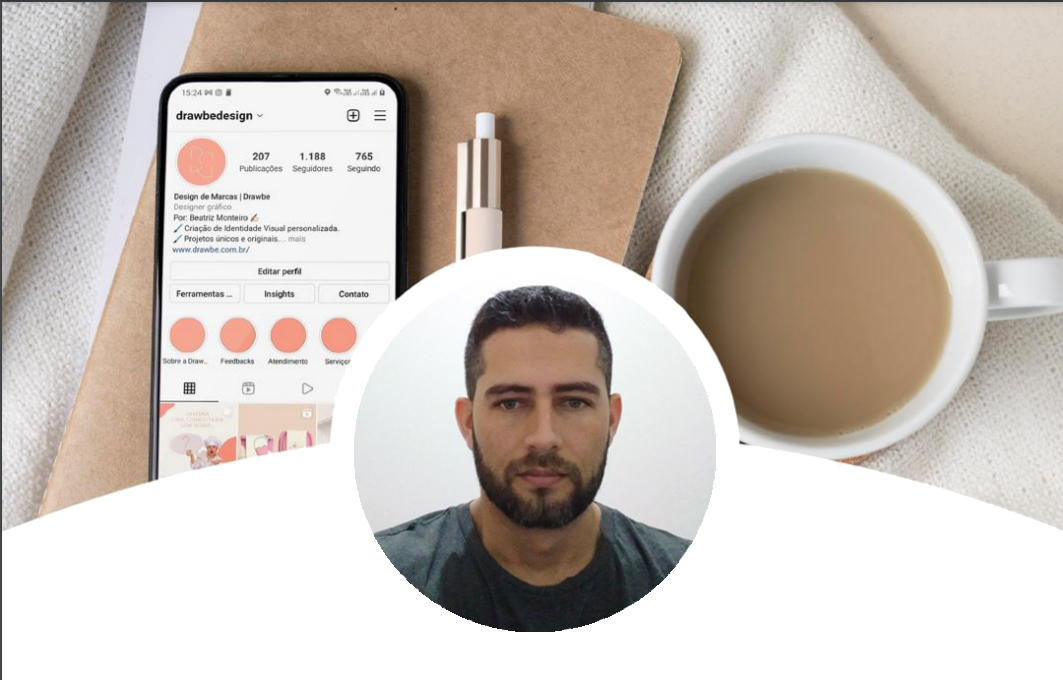
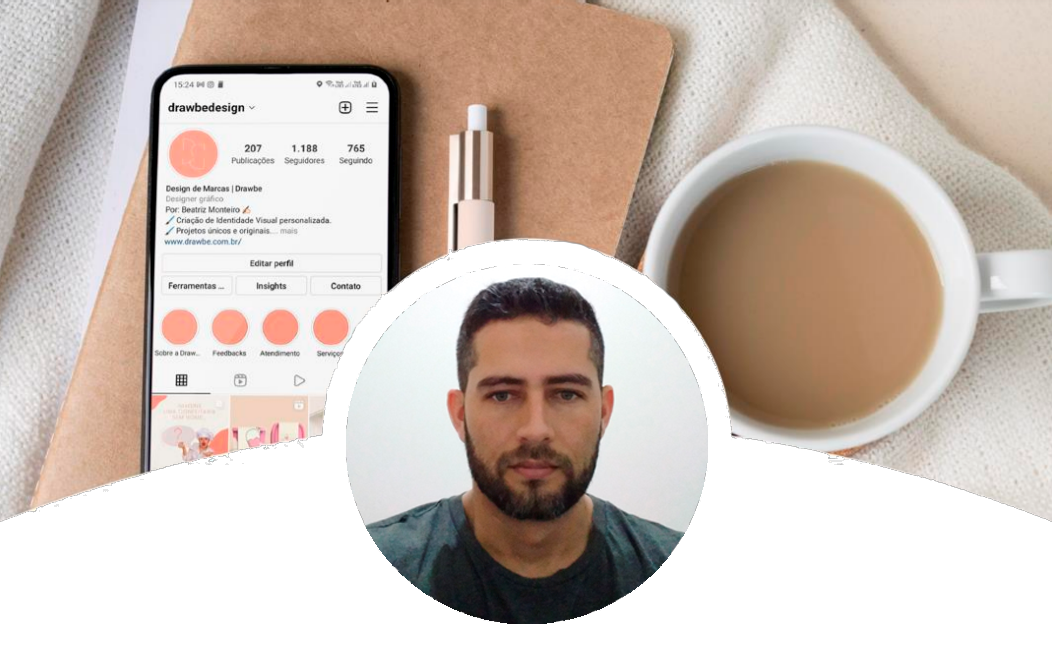
Atualizando visual card

diff --git a/css/style.css b/css/style.css
@@ -1,61 +1,54 @@
 @import url('https://fonts.googleapis.com/css2?family=Poppins:wght@100;200;300;400&display=swap');
-
 body{
     font-family: 'Poppins', sans-serif;
     text-align: center;
 }
-
-
+#card{
+    max-width: 576px;
+    margin: 0 auto;   
+}
 #img-cover{
     width: 100%;
 }
-
 #company-name{
-    margin: 10px 0;    
+    margin: 10px;    
     font-size: 1.8em;
     font-weight: 300;
     letter-spacing: 0.2em;
 }
-
 #company-name span{    
     letter-spacing: -0.1em;
 }
-
 #company-description{
     margin:  5px 0;
-    font-size: 0.7em;
-    font-weight: 400;
+    font-size: .9em;
+    font-weight: 300;
     letter-spacing: 0.1em;
 }
-
-#img-social-networks{
-    width: 30%;
-}
-
 .contacts{
     margin: 30px 0 60px 0;
 }
-
+#img-social-networks{
+    width: 40%;
+}
 .contacts a{
     display: block;    
-    font-size: 1.1em;
-    margin: 20px 15vw;
-    padding: 17px 0;
+    font-size: 1.1em;    
     border-radius: 15px;
     letter-spacing: 0.1em;
-
+    padding: 17px 0;
+    margin: 20px auto;
+    max-width: 70%;
     position: relative;
-    animation-name: example;
+    animation-name: botoes;
     animation-duration: 1s;    
 }
-
-.animation1 {animation-timing-function: linear;}
-.animation2 {animation-timing-function: ease;}
-.animation3 {animation-timing-function: ease-in;}
-.animation4 {animation-timing-function: ease-out;}
-.animation5 {animation-timing-function: ease-in-out;}
-
-@keyframes example {
+.a1 {animation-timing-function: linear;}
+.a2 {animation-timing-function: ease;}
+.a3 {animation-timing-function: ease-in;}
+.a4 {animation-timing-function: ease-out;}
+.a5 {animation-timing-function: ease-in-out;}
+@keyframes botoes {
     from {
         left: -200px;
         opacity: 0;
@@ -65,11 +58,9 @@ body{
         left: 0px;
     }
 }
-
 .contacts a:hover{
     opacity: 0.9;
 }
-
 .footer{
     position: fixed;
     bottom: 0;
@@ -81,7 +72,6 @@ body{
     letter-spacing: 0.2em;
     z-index: -1;
 }
-
 .my-1{
     margin-top: 8vh;
     margin-bottom: 8vh;
@@ -90,44 +80,11 @@ body{
     margin-top: 10vh;
     margin-bottom: 10vh;
 }
-
 @media only screen and (min-width: 576px) {
-    .contacts{
-        margin-inline: 10vw;
-    }
-    .footer{
-        position: relative;  
-    }
-}
-
-@media only screen and (min-width: 768px) {
-    .contacts{
-        margin-inline: 20vw;
-    }
-    #company-name{   
-        font-size: 2.7em;
-    }    
-    #company-description{
-        font-size: 1.05em;
-    }
-    .contacts a{
-        margin: 20px 8vw;
-    }
-}
-@media only screen and (min-width: 992px) {
-    #company-name{  
-        font-size: 3.6em;
-    }    
-    #company-description{
-        font-size: 1.4em;
-    }    
-    #img-social-networks{
-        width: 18%;
-    }
-
-}
-@media only screen and (min-width: 1200px) {
-    #img-cover{
-        height: 300px;
-    }
+    #card{
+        margin-top: 5px;
+        margin-bottom: 5px;
+        box-shadow: 1px 1px 8px rgb(194, 194, 194);
+        padding-bottom: 20px;
+    }   
 }

diff --git a/js/action.js b/js/action.js
@@ -1,17 +1,17 @@
 const customers = [];
 
 customers["eliton"]={
-        "name":"Eliton Camargo",
+        "name":"Eliton Camargo de Oliveira",
         "description": "Desenvolvedor de sites",
         "backgroundSite":"#ececec",
         "colorFontSite":"green",
         "backgroundButton":"green",
         "colorFontButton":"white",
         "links":[
-            {"name":"Site oficial","url":"https://drawbe.com.br/","animation":"animation1"},
-            {"name":"Facebook","url":"https://www.facebook.com/eliton.camargodeoliveira","animation":"animation2"},
-            {"name":"linkedin","url":"https://www.linkedin.com/in/eliton-camargo-270a37b3/","animation":"animation3"},
-            {"name":"WhatsApp","url":"https://api.whatsapp.com/send?phone=5514996874866","animation":"animation4"}
+            {"name":"Site oficial","url":"https://drawbe.com.br/","animation":"a1"},
+            {"name":"Facebook","url":"https://www.facebook.com/eliton.camargodeoliveira","animation":"a2"},
+            {"name":"linkedin","url":"https://www.linkedin.com/in/eliton-camargo-270a37b3/","animation":"a3"},
+            {"name":"WhatsApp","url":"https://api.whatsapp.com/send?phone=5514996874866","animation":"a5"}
         ]
     };
     
@@ -23,10 +23,10 @@ customers["drawbe"]={
         "backgroundButton":"#ff9076",
         "colorFontButton":"white",
         "links":[
-            {"name":"WHATSAPP","url":"http://api.whatsapp.com/send?phone=5511950509303","animation":"animation2"},
-            {"name":"SITE OFICIAL","url":"https://drawbe.com.br/","animation":"animation3"},
-            {"name":"INSTAGRAM","url":"https://www.instagram.com/drawbedesign/","animation":"animation4"},
-            {"name":"FACEBOOK","url":"https://www.facebook.com/drawbedesign","animation":"animation5"},
+            {"name":"WHATSAPP","url":"http://api.whatsapp.com/send?phone=5511950509303","animation":"a2"},
+            {"name":"SITE OFICIAL","url":"https://drawbe.com.br/","animation":"a3"},
+            {"name":"INSTAGRAM","url":"https://www.instagram.com/drawbedesign/","animation":"a4"},
+            {"name":"FACEBOOK","url":"https://www.facebook.com/drawbedesign","animation":"a5"},
         ]
     };
 
@@ -43,14 +43,13 @@ $('body').css("color", customer.colorFontSite);
 $('#img-cover').attr("src",url.attr('origin') +'/'+urlCustomers+'/capa.png');
 $('#img-social-networks').attr("src",url.attr('origin') +'/'+urlCustomers+'/icones-redes-sociais.png');
 
+
 customer.links.forEach(link => {
 	let button = `<a class="${link.animation}" href="${link.url}" target="_blank" rel="noopener noreferrer" style="background-color: ${customer.backgroundButton}; color: ${customer.colorFontButton};">            
 					${link.name}
 				</a>`;
 	$('#button-links').append(button);
 });
-
-
 
 var root = document.documentElement;
 root.className += 'js';

diff --git a/eliton/index.html b/eliton/index.html
@@ -9,23 +9,25 @@
     <link rel="stylesheet" href="../css/style.css">
 </head>
 <body>
-    <section class="company-data">
-        <img id="img-cover" src="" alt="">
-        <h1 id="company-name"></h1>
-        <h2 id="company-description"></h2>
-    </section>
-
-    <section class="contacts"> 
-        <img id="img-social-networks" src="" alt="" width="30%">
-        <div id="button-links" class="my-2">
-        </div>
-    </section>
-
-    <section class="footer anime">
-        <h3>DESENVOLVIDO POR DRAWBE</h3>
-    </section>
-
-    <script src="../js/jquery-3.6.0.min.js"></script>
-    <script src="../js/action.js"></script>
+    <div id="card">
+        <section class="company-data">
+            <img id="img-cover" src="" alt="">
+            <h1 id="company-name"></h1>
+            <h2 id="company-description"></h2>
+        </section>
+    
+        <section class="contacts"> 
+            <img id="img-social-networks" src="" alt="" width="30%">
+            <div id="button-links" class="my-2">
+            </div>
+        </section>
+    
+        <section class="footer">
+            <h3>DESENVOLVIDO POR DRAWBE</h3>
+        </section>
+    
+        <script src="../js/jquery-3.6.0.min.js"></script>
+        <script src="../js/action.js"></script>
+    </div>
 </body>
 </html>

diff --git a/drawbe/index.html b/drawbe/index.html
@@ -9,23 +9,25 @@
     <link rel="stylesheet" href="../css/style.css">
 </head>
 <body>
-    <section class="company-data">
-        <img id="img-cover" src="" alt="">
-        <h1 id="company-name"></h1>
-        <h2 id="company-description"></h2>
-    </section>
-
-    <section class="contacts"> 
-        <img id="img-social-networks" src="" alt="">
-        <div id="button-links" class="my-2">
-        </div>
-    </section>
+    <div id="card">
+        <section class="company-data">
+            <img id="img-cover" src="" alt="">
+            <h1 id="company-name"></h1>
+            <h2 id="company-description"></h2>
+        </section>
     
-    <section class="footer anime">
-        <h3>DESENVOLVIDO POR DRAWBE</h3>
-    </section>
-
-    <script src="../js/jquery-3.6.0.min.js"></script>
-    <script src="../js/action.js"></script>
+        <section class="contacts"> 
+            <img id="img-social-networks" src="" alt="" width="30%">
+            <div id="button-links" class="my-2">
+            </div>
+        </section>
+    
+        <section class="footer">
+            <h3>DESENVOLVIDO POR DRAWBE</h3>
+        </section>
+    
+        <script src="../js/jquery-3.6.0.min.js"></script>
+        <script src="../js/action.js"></script>
+    </div>
 </body>
 </html>
